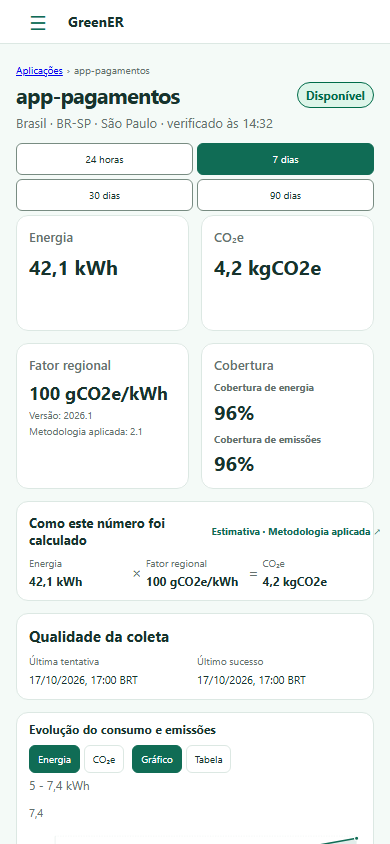
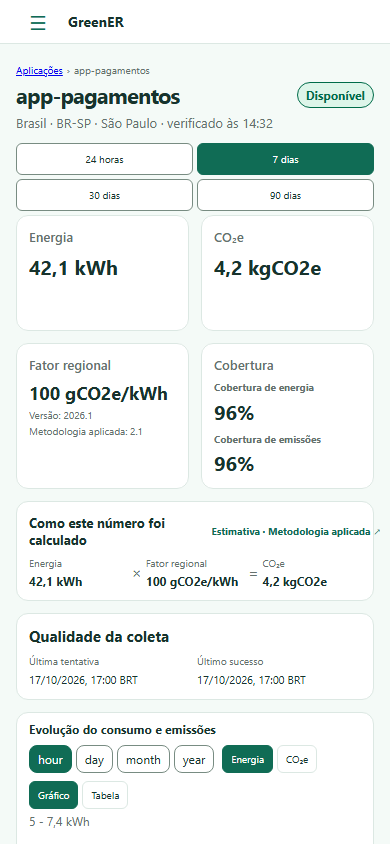
fix(frontend): corrigir falhas do pipeline de detalhe

Changed region(s): [[0.0615, 0.8626, 0.8, 0.9858], [0.8308, 0.9858, 0.9231, 1.0]]

diff --git a/frontend/src/pages/detail/EnvironmentalAnalysis.tsx b/frontend/src/pages/detail/EnvironmentalAnalysis.tsx
@@ -351,7 +351,7 @@ function getMethodologyState(data: AnalysisViewModel | null, status: 'loading' |
   return 'loading' as const
 }
 
-export function EnvironmentalAnalysis({ data, status, locale, labels, onRetry, formatDate, seriesPage, seriesPageSize, seriesQuery, onSeriesQueryChange, onSeriesPaginationChange, onInspectContributions, contributions, contextContent, evidenceContent, lastAttemptAt, lastSuccessAt, lastSuccessStatus }: Readonly<{
+export function EnvironmentalAnalysis({ data, status, locale, labels, onRetry, formatDate, seriesPage, seriesPageSize, seriesQuery, onSeriesQueryChange, onSeriesPaginationChange, onInspectContributions, contributions, contextContent, granularityContent, evidenceContent, lastAttemptAt, lastSuccessAt, lastSuccessStatus }: Readonly<{
   data: AnalysisViewModel | null
   status: 'loading' | 'refreshing' | 'available' | 'empty' | 'unavailable' | 'error' | 'invalid-period' | 'invalid-granularity'
   locale: string
@@ -366,6 +366,7 @@ export function EnvironmentalAnalysis({ data, status, locale, labels, onRetry, f
   onInspectContributions?: (bucketStart: string, page?: number, pageSize?: number | 'all') => void
   contributions: Readonly<{ data: AnalysisContributionsPage | null; loading: boolean; error: boolean }> | null
   contextContent: ReactNode
+  granularityContent: ReactNode
   evidenceContent: ReactNode
   lastAttemptAt: string | null
   lastSuccessAt: string | null
@@ -448,6 +449,7 @@ export function EnvironmentalAnalysis({ data, status, locale, labels, onRetry, f
     </div>
     <div className={styles.lowerGrid}>
       <div className={styles.seriesColumn}>
+        {invalidContext && granularityContent}
         {!invalidContext && <AnalysisSeries series={data?.series ?? (emptyResult ? { status: 'available', points: [] } : { status: 'unavailable', reason: 'seriesUnavailable' })}
           state={emptyResult ? 'available' : status} locale={locale} formatDate={formatDate} labels={{
       heading: labels.seriesHeading, graph: labels.graph, table: labels.table, metricToggle: labels.metricToggle, moment: labels.moment,
@@ -469,7 +471,7 @@ export function EnvironmentalAnalysis({ data, status, locale, labels, onRetry, f
       inspectContributions: labels.inspectContributions,
       emissionsStatus: labels.emissionsStatus, allStatuses: labels.allStatuses, availableStatus: labels.availableStatus,
       unavailableStatus: labels.unavailableStatus, notCalculableStatus: labels.notCalculableStatus, noMatches: labels.noMatches,
-    }} page={seriesPage} pageSize={seriesPageSize} query={seriesQuery} onQueryChange={onSeriesQueryChange}
+      }} page={seriesPage} pageSize={seriesPageSize} query={seriesQuery} onQueryChange={onSeriesQueryChange} controlContent={granularityContent}
       onPaginationChange={onSeriesPaginationChange} onInspectContributions={inspectContributions} />}
       </div>
       <div className={styles.evidenceColumn}>{evidenceContent}</div>

diff --git a/frontend/src/pages/detail/AnalysisSeries.tsx b/frontend/src/pages/detail/AnalysisSeries.tsx
@@ -1,4 +1,4 @@
-import { useEffect, useState } from 'react'
+import { useEffect, useState, type ReactNode } from 'react'
 import type { AnalysisPresentationReason, AnalysisReading, AnalysisSeriesPoint, AnalysisSeriesResult } from '../../features/analysis/source.ts'
 import { formatInstantForDateTimeInput, getBrowserTimeZone, parseDateTimeInputInZone, parseAnalysisSeriesPageSize, parseAnalysisSeriesReadingStatus, type AnalysisSeriesPageSize, type AnalysisSeriesQuery } from './seriesQuery.ts'
 import { collectSeriesUnits, formatSeriesNumber, formatSeriesReading, hasInvalidDateRange, readNumericRange, readSeriesRowRange, selectSeriesPoints } from './analysisSeriesData.ts'
@@ -306,7 +306,7 @@ function SeriesContent({ series, state, view, metric, locale, labels, formatDate
   return <SeriesTableView {...filterProps} invalidDateRange={invalidDateRange} tableProps={tableProps} />
 }
 
-export function AnalysisSeries({ series, state, locale, labels, formatDate, page, pageSize, query, onPaginationChange, onQueryChange, onInspectContributions }: Readonly<{
+export function AnalysisSeries({ series, state, locale, labels, formatDate, page, pageSize, query, onPaginationChange, onQueryChange, onInspectContributions, controlContent }: Readonly<{
   series: AnalysisSeriesResult
   state: 'loading' | 'refreshing' | 'available' | 'unavailable' | 'error' | 'invalid-period'
   locale: string
@@ -318,6 +318,7 @@ export function AnalysisSeries({ series, state, locale, labels, formatDate, page
   onPaginationChange: (page: number | null, pageSize: AnalysisSeriesPageSize) => void
   onQueryChange: (query: AnalysisSeriesQuery) => void
   onInspectContributions?: (bucketStart: string) => void
+  controlContent?: ReactNode
 }>) {
   const [view, setView] = useState<'graph' | 'table'>('graph')
   const [metric, setMetric] = useState<'energy' | 'emissions'>('energy')
@@ -399,6 +400,7 @@ export function AnalysisSeries({ series, state, locale, labels, formatDate, page
     <div className={styles.header}>
       <h2 id="analysis-series-heading">{labels.heading}</h2>
       <div className={styles.controls}>
+      {controlContent}
       <div className={styles.metricToggle} role="group" aria-label={labels.metricToggle}>
         <button type="button" aria-pressed={metric === 'energy'} onClick={() => setMetric('energy')}>{labels.energy}</button>
         <button type="button" aria-pressed={metric === 'emissions'} onClick={() => setMetric('emissions')}>{labels.emissions}</button>

diff --git a/frontend/src/pages/detail/ApplicationDetailPage.tsx b/frontend/src/pages/detail/ApplicationDetailPage.tsx
@@ -278,15 +278,15 @@ export function ApplicationDetailPage({ id, navigate, analysisSource = environme
               methodologyUnavailable: tDetail('analysisReason.methodologyUnavailable'),
               seriesUnavailable: tDetail('analysisReason.seriesUnavailable'),
               compositionUnavailable: tDetail('analysisReason.compositionUnavailable'),
-              noObservation: tDetail('analysisReason.noObservation') } }} evidenceContent={evidenceContent} contextContent={<>
-          <AnalysisGranularity capabilities={granularityCapabilities} requestedValue={analysisGranularity}
+              noObservation: tDetail('analysisReason.noObservation') } }} evidenceContent={evidenceContent} granularityContent={<AnalysisGranularity compact
+          capabilities={granularityCapabilities} requestedValue={analysisGranularity}
             onChange={(value) => {
               const next = new URL(window.location.href)
               next.searchParams.set('granularity', value)
               next.searchParams.delete('seriesPage')
               navigate(`${next.pathname}?${next.searchParams.toString()}`)
             }} labels={{ heading: tDetail('analysisGranularityHeading'), unavailable: tDetail('analysisGranularityUnavailable'),
-              unsupported: tDetail('analysisGranularityUnsupported'), repair: tDetail('analysisGranularityRepair') }} />
+              unsupported: tDetail('analysisGranularityUnsupported'), repair: tDetail('analysisGranularityRepair') }} />} contextContent={<>
           {contextContent}
         <section className={styles['detail-card']}><h2>{tDetail('refreshHeading')}</h2><p>{tDetail('refreshStatus', {
           seconds: pollingIntervalMs / 1000,

diff --git a/frontend/src/pages/detail/AnalysisGranularity.tsx b/frontend/src/pages/detail/AnalysisGranularity.tsx
@@ -8,14 +8,16 @@ export type AnalysisGranularityLabels = Readonly<{
   repair: string
 }>
 
-export function AnalysisGranularity({ capabilities, requestedValue, onChange, labels }: Readonly<{
+export function AnalysisGranularity({ capabilities, requestedValue, onChange, labels, compact = false }: Readonly<{
   capabilities: AnalysisGranularityCapabilities
   requestedValue: string | null
   onChange: (value: string) => void
   labels: AnalysisGranularityLabels
+  compact?: boolean
 }>) {
+  const sectionClass = compact ? `${styles.section} ${styles.compact}` : styles.section
   if (capabilities.status === 'unavailable') {
-    return <section className={styles.section} aria-labelledby="analysis-granularity-heading">
+    return <section className={sectionClass} aria-labelledby="analysis-granularity-heading">
       <h2 id="analysis-granularity-heading">{labels.heading}</h2>
       <output className={styles.unavailable}>{labels.unavailable}</output>
     </section>
@@ -26,7 +28,7 @@ export function AnalysisGranularity({ capabilities, requestedValue, onChange, la
     ? capabilities.selectedValue
     : null
 
-  return <section className={styles.section} aria-labelledby="analysis-granularity-heading">
+  return <section className={sectionClass} aria-labelledby="analysis-granularity-heading">
     <fieldset className={styles.options} aria-labelledby="analysis-granularity-heading">
       <h2 id="analysis-granularity-heading">{labels.heading}</h2>
       {requestedValue !== null && !requestedIsSupported && <div className={styles.alert} role="alert">

diff --git a/frontend/e2e/theme.spec.ts b/frontend/e2e/theme.spec.ts
@@ -54,6 +54,7 @@ test('escolha explícita persiste na recarga e na navegação sem perder filtros
   await page.reload()
   await expect(page.getByRole('switch', { name: 'Modo escuro', exact: true })).toHaveAttribute('aria-checked', 'true')
   await row(page, 'svc-0142').getByRole('link').click()
+  await page.locator('#analysis-details summary').click()
   await expect(page.getByRole('heading', { name: 'Identificação e situação', exact: true })).toBeVisible()
   await expect(page.locator('html')).toHaveCSS('color-scheme', 'dark')
   await page.getByRole('link', { name: /voltar/i }).click()
@@ -202,6 +203,7 @@ for (const theme of ['Claro', 'Escuro']) {
     await page.screenshot({ path: testInfo.outputPath(`filters-${theme}.png`), fullPage: true })
     await page.keyboard.press('Escape')
     await row(page, 'svc-0142').getByRole('link').click()
+    await page.locator('#analysis-details summary').click()
     await expect(page.getByRole('heading', { name: 'Identificação e situação', exact: true })).toBeVisible()
     await page.screenshot({ path: testInfo.outputPath(`detail-${theme}.png`), fullPage: true })
     await page.getByRole('link', { name: /voltar/i }).click()

diff --git a/frontend/src/pages/detail/AnalysisGranularity.module.css b/frontend/src/pages/detail/AnalysisGranularity.module.css
@@ -10,6 +10,46 @@
   font-size: 15px;
 }
 
+.compact {
+  position: relative;
+  display: block;
+}
+
+.compact h2 {
+  position: absolute;
+  width: 1px;
+  height: 1px;
+  overflow: hidden;
+  clip: rect(0, 0, 0, 0);
+  white-space: nowrap;
+}
+
+.compact .options {
+  display: block;
+}
+
+.compact .choices {
+  gap: 4px;
+}
+
+.compact .option,
+.compact .repair {
+  min-height: 28px;
+  padding: 4px 8px;
+  font-size: 12px;
+}
+
+.compact .alert {
+  position: absolute;
+  z-index: 2;
+  top: calc(100% + 4px);
+  right: 0;
+  width: max-content;
+  max-width: min(320px, 72vw);
+  padding: 8px;
+  background: var(--surface-card);
+}
+
 .unavailable {
   color: var(--text-secondary);
 }

diff --git a/frontend/e2e/i18n.spec.ts b/frontend/e2e/i18n.spec.ts
@@ -34,6 +34,7 @@ test('catálogo e detalhe estão traduzidos nos oito idiomas', async ({ page }) 
     await expect(page.getByRole('heading', { level: 1, name: item.title, exact: true })).toBeVisible()
     await expect(page.getByRole('button', { name: new RegExp(`^${item.available} \\(`) })).toBeVisible()
     await row(page, 'svc-0142').getByRole('link', { name: item.details, exact: false }).click()
+    await page.locator('#analysis-details summary').click()
     await expect(page.getByRole('heading', { name: item.identity, exact: true })).toBeVisible()
     await expect(page.getByRole('heading', { name: item.location, exact: true })).toBeVisible()
     await page.goto('/')

diff --git a/frontend/src/pages/detail/AnalysisSeries.module.css b/frontend/src/pages/detail/AnalysisSeries.module.css
@@ -37,4 +37,5 @@
 .pagination select, .pagination button { min-height: 44px; border: 1px solid var(--border-default); border-radius: 6px; padding: 8px 12px; color: var(--text-primary); background: var(--surface-card); }
 .pagination button { cursor: pointer; }
 .pagination button:disabled { opacity: .55; cursor: not-allowed; }
+@media (max-width: 640px) { .controls { max-width: 100%; flex-wrap: wrap; } }
 @media (max-width: 480px) { .header { align-items: flex-start; flex-direction: column; gap: 8px; } .table th, .table td { padding: 12px; } }
